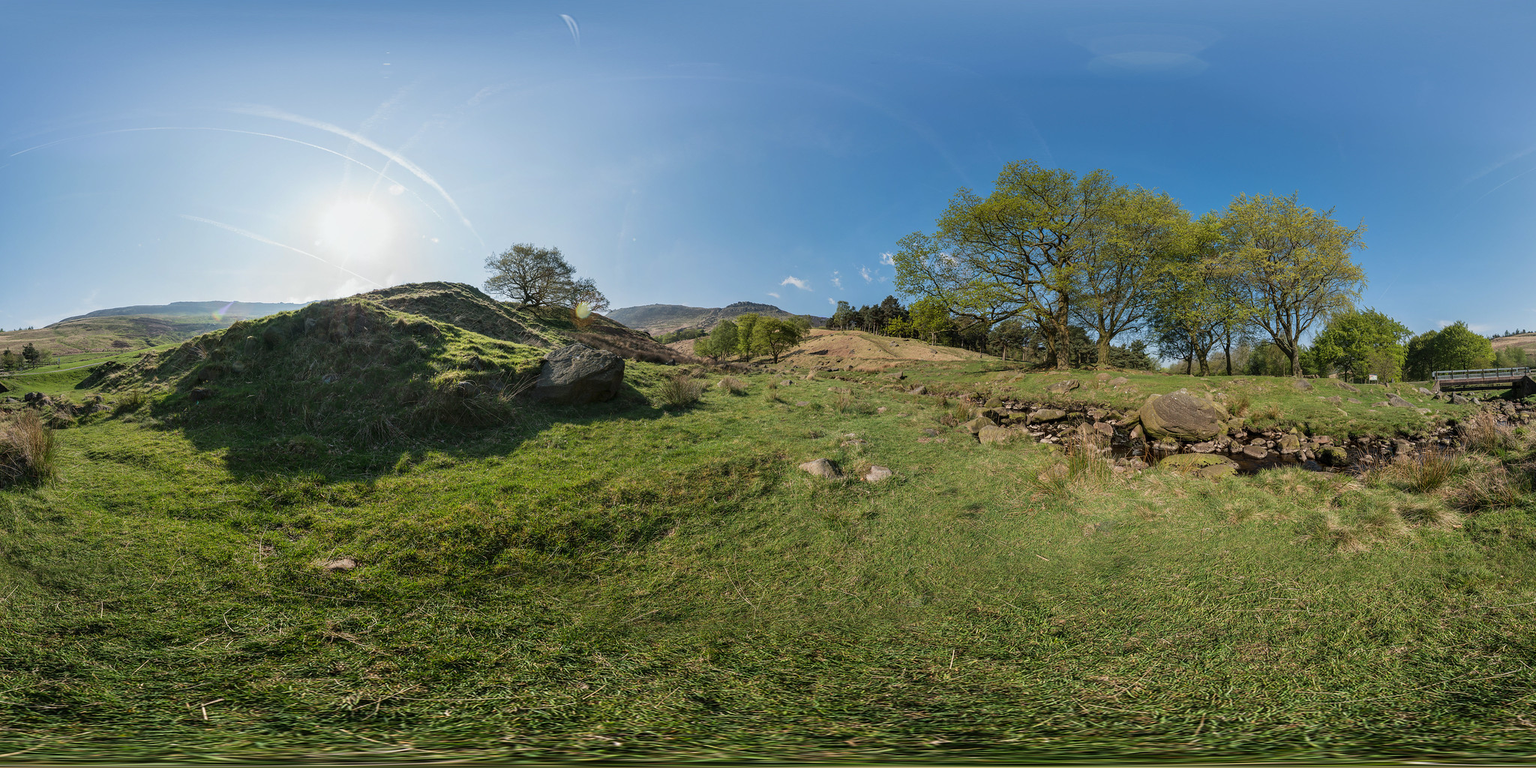
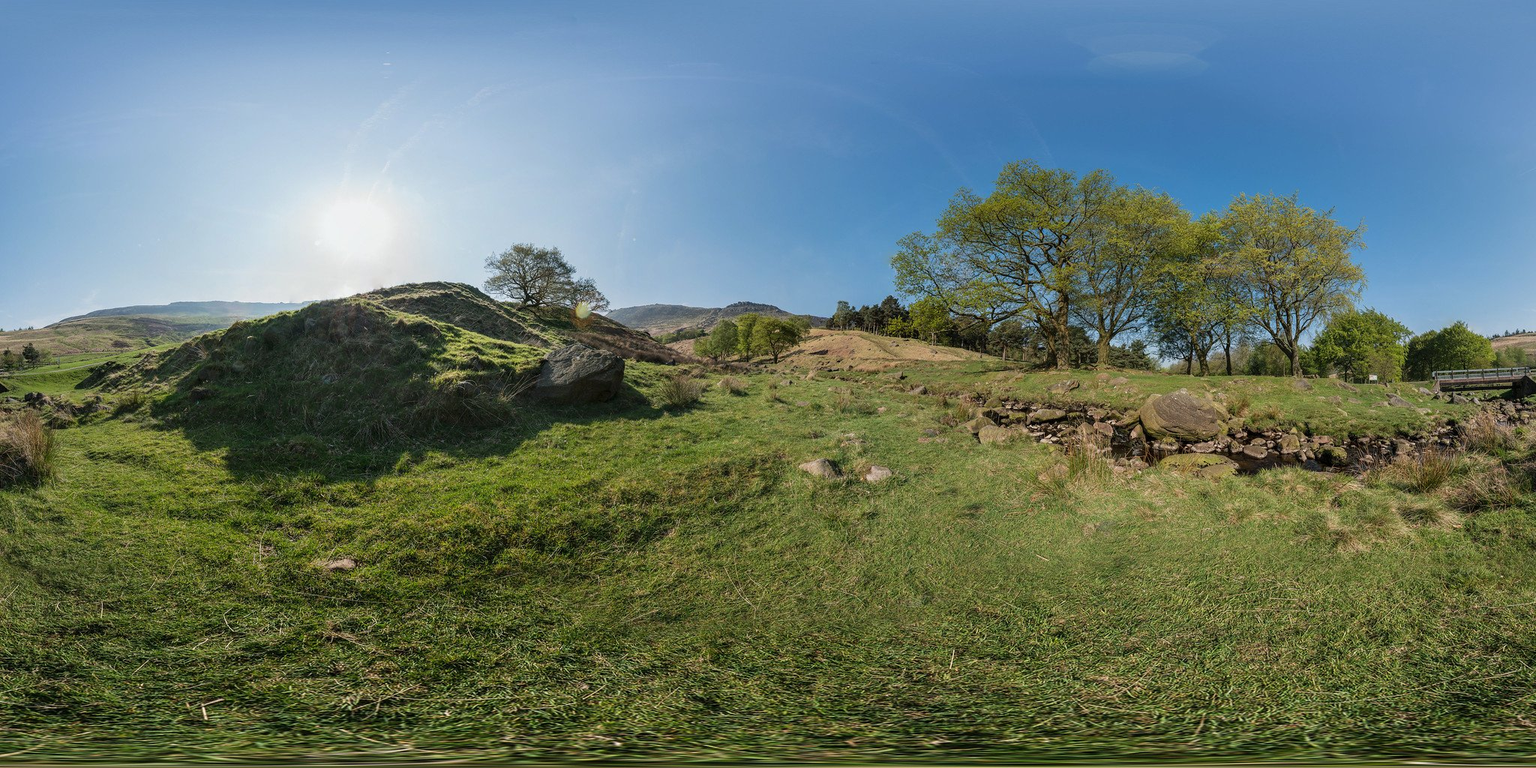
Clouds

diff --git a/project/MyPanorama/MyPanorama.js b/project/MyPanorama/MyPanorama.js
@@ -1,0 +1,52 @@
+import { CGFappearance, CGFtexture, CGFshader } from "../../lib/CGF.js";
+import { MySphere } from '../MySphere.js';
+
+/**
+ * MyPanorama
+ * @constructor
+ * @param scene - Reference to MyScene object
+ */
+export class MyPanorama {
+  constructor(scene) {
+    this.scene = scene;
+
+    this.texture = new CGFtexture(scene, 'images/panorama.jpg');
+    this.cloudsTexture = new CGFtexture(scene, 'images/textures/clouds.jpg');
+    this.textureMap = new CGFtexture(scene, 'images/panorama_map.png');
+    this.shader = new CGFshader(scene.gl, 'MyPanorama/panorama.vert', 'MyPanorama/panorama.frag');
+    this.shader.setUniformsValues({ uSampler3: 2, uSampler2: 1, timeFactor: 0});
+
+    this.sphere = new MySphere(scene, 20, 20, 200, -1);
+    
+    this.apperance = new CGFappearance(scene);
+    this.apperance.setTexture(this.texture);
+    this.apperance.setTextureWrap('REPEAT', 'REPEAT');
+    this.apperance.setEmission(1, 1, 1, 1);
+
+    this.apperance.setAmbient(0, 0, 0, 0);
+    this.apperance.setDiffuse(0, 0, 0, 0);
+    this.apperance.setSpecular(0, 0, 0, 0);
+    this.apperance.setShininess(0);
+
+    this.timeFactor = 0;
+  }
+
+  display() {
+    this.scene.setActiveShader(this.shader);
+    this.cloudsTexture.bind(1);
+    this.textureMap.bind(2);
+    this.scene.pushMatrix();
+
+    this.apperance.apply();
+    this.sphere.display();
+
+    this.scene.popMatrix();
+    this.scene.setActiveShader(this.scene.defaultShader);
+  }
+
+  update() {
+    this.timeFactor += 0.09;
+    //this.timeFactor = this.timeFactor % 1000.0;
+    this.shader.setUniformsValues({ timeFactor: this.timeFactor  });
+  }
+}

diff --git a/project/MyScene.js b/project/MyScene.js
@@ -4,7 +4,7 @@ import {MyFlower} from './MyFlower/MyFlower.js';
 import {MyLeaf} from './MyFlower/MyLeaf.js';
 import {MyStem} from './MyFlower/MyStem.js';
 import {MyGarden} from './MyGarden/MyGarden.js';
-import {MyPanorama} from './MyPanorama.js';
+import {MyPanorama} from './MyPanorama/MyPanorama.js';
 import {MyPlane} from './MyPlane.js';
 import {MyRock} from './MyRock.js';
 import {MySphere} from './MySphere.js';
@@ -66,8 +66,7 @@ export class MyScene extends CGFscene {
     this.earthAppearance.setTexture(this.earthTexture);
     this.earthAppearance.setTextureWrap('REPEAT', 'REPEAT');
 
-    this.panoramaTexture = new CGFtexture(this, 'images/panorama.jpg');
-    this.panorama = new MyPanorama(this, this.panoramaTexture);
+    this.panorama = new MyPanorama(this);
 
     this.setUpdatePeriod(50);
   }
@@ -140,5 +139,6 @@ export class MyScene extends CGFscene {
 
   update(t) {
     this.grass.update(t);
+    this.panorama.update(t);
   }
 }
